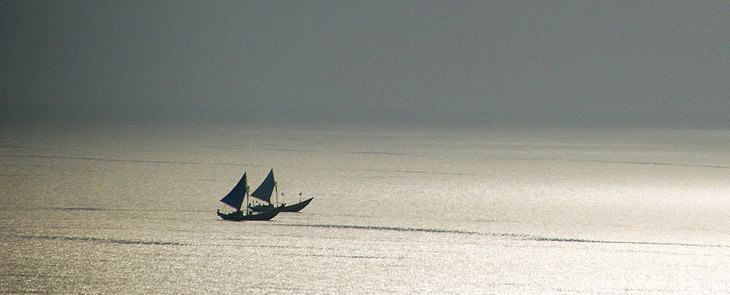
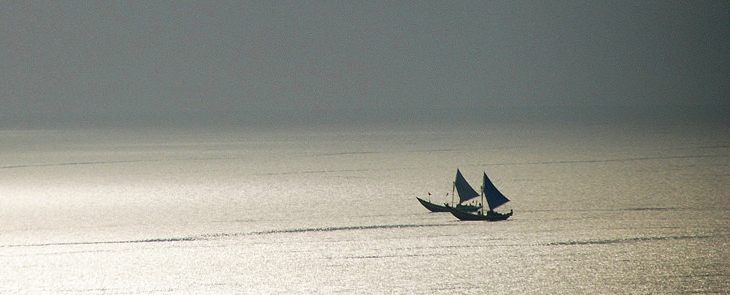
internal page template navigation

diff --git a/build/working-dai/job-opportunities/index.html b/build/working-dai/job-opportunities/index.html
@@ -204,10 +204,10 @@
     <svg class="logo" viewBox="0 0 982 245" preserveAspectRatio="xMinYMax meet"><use xlink:href="#logo"></use></svg>
     <ul class="header-nav--main">
         <li><a id="who-we-are-nav"href="/#who-we-are" class="">Who We Are</a></li>
-        <li><a id="our-work-nav" href="/#our-work">Our Work</a></li>
-        <li class="header-nav-li--tiered"><a id="stories-nav" href="/#stories">Stories</a></li>
-        <li><a id="news-nav" href="/#news">News</a></li>
-        <li><a id="working-with-dai-nav" href="/#working-with-dai">Working with DAI</a></li>
+        <li><a id="our-work-nav" href="/#our-work" class="">Our Work</a></li>
+        <li class="header-nav-li--tiered"><a id="stories-nav" href="/#stories" class="">Stories</a></li>
+        <li><a id="news-nav" href="/#news" class="">News</a></li>
+        <li><a id="working-with-dai-nav" href="/#working-with-dai" class="active">Working with DAI</a></li>
       </ul>
     </div>
   </div>
@@ -219,21 +219,42 @@
       <h4>Working with DAI</h4>
       <ul class="rail-nav-links">
         
-          <li class="rail-nav-link"><a href="/working-dai/contracting-vehicles">Contracting Vehicles</a></li>
+          <li class="rail-nav-link"><a href="/working-dai/contracting-vehicles" class="">Contracting Vehicles</a></li>
         
-          <li class="rail-nav-link"><a href="/working-dai/current-procurements">Currennt Procurements</a></li>
+          <li class="rail-nav-link"><a href="/working-dai/current-procurements" class="">Currennt Procurements</a></li>
         
-          <li class="rail-nav-link"><a href="/working-dai/job-opportunities/">Job Opportunities</a></li>
+          <li class="rail-nav-link"><a href="/working-dai/job-opportunities/" class="active">Job Opportunities</a></li>
         
-          <li class="rail-nav-link"><a href="/working-dai/partnering-dai">Partnering with DAI</a></li>
+          <li class="rail-nav-link"><a href="/working-dai/partnering-dai" class="">Partnering with DAI</a></li>
         
       </ul>
     </div>
-    <div class="node-nav-banner"></div>
   </div>
 
+<h1>Job Opportunities</h1>
+<p>DAI offers rewarding career opportunities for talented technical, managerial, and support professionals. By providing challenging assignments, a commitment to professional development, managerial systems based on teamwork, and an ownership stake in the company, we attract and retain high-caliber staff. Our workforce reflects a cultural diversity that gives us a broad spectrum of backgrounds and perspectives.</p>
 
-<p>then some page specific stuff here</p>
+<p><a href="" class="primary-block--button">Search Current Openings</a></p>
+<p>It is the policy of DAI to use the Internet and related electronic data technologies to fill all vacant home office (corporate) positions. Job seekers, both internal and external, including but not limited to individuals sourced by means of job fairs, networking events, and employee referrals, will be directed to apply at the DAI online career page. Job seekers are instructed to complete a profile and upload a copy of their current curriculum vitae for a particular job opening.</p>
+<p>Individuals must follow these instructions to be considered for employment. Race, ethnicity, and gender information will be solicited using a voluntary self-identification form at the time a job seeker completes a profile. Individual responses to this information will be tracked solely for purposes of compliance with affirmative action regulations under Executive Order 11246.</p>
+<p>DAI is an equal opportunity/affirmative action employer with a commitment to  diversity.  All individuals, regardless of personal characteristics, are encouraged to apply. (Compliant with the new VEVRAA and Section 503 rules).</p>
+<p><strong>Equal Employment Opportunity (EEO) Resources:</strong></p>
+<ul>
+  <li>
+    <a href="http://dai.com/sites/default/files/eeo-poster.pdf">Detailed explanation of the EEO is the Law poster (English)</a></li>
+  <li>
+    <a href="http://dai.com/sites/default/files/eeo-spanish.pdf">Detailed explanation of the EEO is the Law poster (Spanish)</a></li>
+  <li>
+    <a href="http://dai.com/sites/default/files/pdfs/eeo_policy.pdf">DAI EEO policy</a></li>
+</ul>
+<h3>Benefits</h3>
+<p>Joining DAI means that you now play a role in shaping a livable world. It also means that you have our global commitment to support you and your family by offering competitive and comprehensive compensation and benefits. As a DAI employee, whether you work in the U.S, the U.K., or a field location around the world, you and your dependents have access to generous health, welfare and pension plans, as well as market leading time off benefits and more.</p>
+
+<p>DAI strives to be an employer of choice and to achieve a healthy work-life balance for all employees.</p>
+<hr>
+<p class="disclaimer">DAI makes reasonable accommodation for individuals with disabilities who are otherwise qualified to perform a job, unless such accommodation would impose an undue hardship. Please let us know if you need an accommodation to participate in the application process: Call (301) 771-7587 or (301) 771-7768.</p>
+
+
       </div>
       <footer>
   <div class="footer-inner">

diff --git a/working-dai/job-opportunities.html b/working-dai/job-opportunities.html
@@ -3,4 +3,25 @@ layout: node
 title: Job Opportunities
 parent: working-dai
 ---
-<p>then some page specific stuff here</p>
+<p>DAI offers rewarding career opportunities for talented technical, managerial, and support professionals. By providing challenging assignments, a commitment to professional development, managerial systems based on teamwork, and an ownership stake in the company, we attract and retain high-caliber staff. Our workforce reflects a cultural diversity that gives us a broad spectrum of backgrounds and perspectives.</p>
+
+<p><a href="" class="primary-block--button">Search Current Openings</a></p>
+<p>It is the policy of DAI to use the Internet and related electronic data technologies to fill all vacant home office (corporate) positions. Job seekers, both internal and external, including but not limited to individuals sourced by means of job fairs, networking events, and employee referrals, will be directed to apply at the DAI online career page. Job seekers are instructed to complete a profile and upload a copy of their current curriculum vitae for a particular job opening.</p>
+<p>Individuals must follow these instructions to be considered for employment. Race, ethnicity, and gender information will be solicited using a voluntary self-identification form at the time a job seeker completes a profile. Individual responses to this information will be tracked solely for purposes of compliance with affirmative action regulations under Executive Order 11246.</p>
+<p>DAI is an equal opportunity/affirmative action employer with a commitment to  diversity.  All individuals, regardless of personal characteristics, are encouraged to apply. (Compliant with the new VEVRAA and Section 503 rules).</p>
+<p><strong>Equal Employment Opportunity (EEO) Resources:</strong></p>
+<ul>
+  <li>
+    <a href="http://dai.com/sites/default/files/eeo-poster.pdf">Detailed explanation of the EEO is the Law poster (English)</a></li>
+  <li>
+    <a href="http://dai.com/sites/default/files/eeo-spanish.pdf">Detailed explanation of the EEO is the Law poster (Spanish)</a></li>
+  <li>
+    <a href="http://dai.com/sites/default/files/pdfs/eeo_policy.pdf">DAI EEO policy</a></li>
+</ul>
+<h3>Benefits</h3>
+<p>Joining DAI means that you now play a role in shaping a livable world. It also means that you have our global commitment to support you and your family by offering competitive and comprehensive compensation and benefits. As a DAI employee, whether you work in the U.S, the U.K., or a field location around the world, you and your dependents have access to generous health, welfare and pension plans, as well as market leading time off benefits and more.</p>
+
+<p>DAI strives to be an employer of choice and to achieve a healthy work-life balance for all employees.</p>
+<hr>
+<p class="disclaimer">DAI makes reasonable accommodation for individuals with disabilities who are otherwise qualified to perform a job, unless such accommodation would impose an undue hardship. Please let us know if you need an accommodation to participate in the application process: Call (301) 771-7587 or (301) 771-7768.</p>
+

diff --git a/_includes/header.html b/_includes/header.html
@@ -13,11 +13,11 @@
     <div class="header-inner">
     <svg class="logo" viewBox="0 0 982 245" preserveAspectRatio="xMinYMax meet"><use xlink:href="#logo"></use></svg>
     <ul class="header-nav--main">
-        <li><a id="who-we-are-nav"href="/#who-we-are{% if page.title == "Home" %}{{"_hash"}}{% endif %}" class="">Who We Are</a></li>
-        <li><a id="our-work-nav" href="/#our-work{% if page.title == "Home" %}{{"_hash"}}{% endif %}">Our Work</a></li>
-        <li class="header-nav-li--tiered"><a id="stories-nav" href="/#stories{% if page.title == "Home" %}{{"_hash"}}{% endif %}">Stories</a></li>
-        <li><a id="news-nav" href="/#news{% if page.title == "Home" %}{{"_hash"}}{% endif %}">News</a></li>
-        <li><a id="working-with-dai-nav" href="/#working-with-dai{% if page.title == "Home" %}{{"_hash"}}{% endif %}">Working with DAI</a></li>
+        <li><a id="who-we-are-nav"href="/#who-we-are{% if page.title == "Home" %}{{"_hash"}}{% endif %}" class="{% if page.parent == "who-we-are" %}{{"active"}}{% endif %}">Who We Are</a></li>
+        <li><a id="our-work-nav" href="/#our-work{% if page.title == "Home" %}{{"_hash"}}{% endif %}" class="{% if page.parent == "our-work" %}{{"active"}}{% endif %}">Our Work</a></li>
+        <li class="header-nav-li--tiered"><a id="stories-nav" href="/#stories{% if page.title == "Home" %}{{"_hash"}}{% endif %}" class="{% if page.parent == "stories" %}{{"active"}}{% endif %}">Stories</a></li>
+        <li><a id="news-nav" href="/#news{% if page.title == "Home" %}{{"_hash"}}{% endif %}" class="{% if page.parent == "news" %}{{"active"}}{% endif %}">News</a></li>
+        <li><a id="working-with-dai-nav" href="/#working-with-dai{% if page.title == "Home" %}{{"_hash"}}{% endif %}" class="{% if page.parent == "working-dai" %}{{"active"}}{% endif %}">Working with DAI</a></li>
       </ul>
     </div>
   </div>

diff --git a/build/assets/css/site.css b/build/assets/css/site.css
@@ -137,6 +137,9 @@ strong {
   font-size: 1.3rem;
   font-weight: normal; }
 
+.disclaimer {
+  font-size: .8rem; }
+
 .footer-nav h4 {
   color: #8FC3EA;
   font-size: .6rem;
@@ -669,12 +672,12 @@ header {
       width: 624px; } }
 
 .primary-block {
-  margin-bottom: 1em; }
+  margin-bottom: 4em; }
   .primary-block img {
     width: 100%; }
 
 .primary-block.split {
-  margin-bottom: 3em; }
+  margin-bottom: 4em; }
   @media screen and (min-width: 50em) {
     .primary-block.split {
       width: 228px;
@@ -843,7 +846,8 @@ tbody tr:nth-child(odd) th {
   margin-bottom: 1rem;
   background-image: url(/assets/images/working/boats.jpg);
   background-repeat: no-repeat;
-  background-size: cover; }
+  background-size: cover;
+  background-position: center; }
   .node-nav:before, .node-nav:after {
     content: " ";
     display: table; }
@@ -857,10 +861,15 @@ tbody tr:nth-child(odd) th {
     color: white; }
   .node-nav--links li a {
     color: #c8c6c2; }
+  .node-nav--links li a.active {
+    color: white; }
   @media screen and (min-width: 30em) {
     .node-nav--links {
       width: 192px;
       float: left; } }
+  @media screen and (min-width: 37.5em) {
+    .node-nav--links {
+      width: 264px; } }
 
 @media screen and (min-width: 30em) {
   .node-nav-banner {

diff --git a/build/index.html b/build/index.html
@@ -204,10 +204,10 @@
     <svg class="logo" viewBox="0 0 982 245" preserveAspectRatio="xMinYMax meet"><use xlink:href="#logo"></use></svg>
     <ul class="header-nav--main">
         <li><a id="who-we-are-nav"href="/#who-we-are_hash" class="">Who We Are</a></li>
-        <li><a id="our-work-nav" href="/#our-work_hash">Our Work</a></li>
-        <li class="header-nav-li--tiered"><a id="stories-nav" href="/#stories_hash">Stories</a></li>
-        <li><a id="news-nav" href="/#news_hash">News</a></li>
-        <li><a id="working-with-dai-nav" href="/#working-with-dai_hash">Working with DAI</a></li>
+        <li><a id="our-work-nav" href="/#our-work_hash" class="">Our Work</a></li>
+        <li class="header-nav-li--tiered"><a id="stories-nav" href="/#stories_hash" class="">Stories</a></li>
+        <li><a id="news-nav" href="/#news_hash" class="">News</a></li>
+        <li><a id="working-with-dai-nav" href="/#working-with-dai_hash" class="">Working with DAI</a></li>
       </ul>
     </div>
   </div>

diff --git a/build/page2/index.html b/build/page2/index.html
@@ -204,10 +204,10 @@
     <svg class="logo" viewBox="0 0 982 245" preserveAspectRatio="xMinYMax meet"><use xlink:href="#logo"></use></svg>
     <ul class="header-nav--main">
         <li><a id="who-we-are-nav"href="/#who-we-are_hash" class="">Who We Are</a></li>
-        <li><a id="our-work-nav" href="/#our-work_hash">Our Work</a></li>
-        <li class="header-nav-li--tiered"><a id="stories-nav" href="/#stories_hash">Stories</a></li>
-        <li><a id="news-nav" href="/#news_hash">News</a></li>
-        <li><a id="working-with-dai-nav" href="/#working-with-dai_hash">Working with DAI</a></li>
+        <li><a id="our-work-nav" href="/#our-work_hash" class="">Our Work</a></li>
+        <li class="header-nav-li--tiered"><a id="stories-nav" href="/#stories_hash" class="">Stories</a></li>
+        <li><a id="news-nav" href="/#news_hash" class="">News</a></li>
+        <li><a id="working-with-dai-nav" href="/#working-with-dai_hash" class="">Working with DAI</a></li>
       </ul>
     </div>
   </div>

diff --git a/build/404/index.html b/build/404/index.html
@@ -204,10 +204,10 @@
     <svg class="logo" viewBox="0 0 982 245" preserveAspectRatio="xMinYMax meet"><use xlink:href="#logo"></use></svg>
     <ul class="header-nav--main">
         <li><a id="who-we-are-nav"href="/#who-we-are" class="">Who We Are</a></li>
-        <li><a id="our-work-nav" href="/#our-work">Our Work</a></li>
-        <li class="header-nav-li--tiered"><a id="stories-nav" href="/#stories">Stories</a></li>
-        <li><a id="news-nav" href="/#news">News</a></li>
-        <li><a id="working-with-dai-nav" href="/#working-with-dai">Working with DAI</a></li>
+        <li><a id="our-work-nav" href="/#our-work" class="">Our Work</a></li>
+        <li class="header-nav-li--tiered"><a id="stories-nav" href="/#stories" class="">Stories</a></li>
+        <li><a id="news-nav" href="/#news" class="">News</a></li>
+        <li><a id="working-with-dai-nav" href="/#working-with-dai" class="">Working with DAI</a></li>
       </ul>
     </div>
   </div>

diff --git a/build/about/index.html b/build/about/index.html
@@ -204,10 +204,10 @@
     <svg class="logo" viewBox="0 0 982 245" preserveAspectRatio="xMinYMax meet"><use xlink:href="#logo"></use></svg>
     <ul class="header-nav--main">
         <li><a id="who-we-are-nav"href="/#who-we-are" class="">Who We Are</a></li>
-        <li><a id="our-work-nav" href="/#our-work">Our Work</a></li>
-        <li class="header-nav-li--tiered"><a id="stories-nav" href="/#stories">Stories</a></li>
-        <li><a id="news-nav" href="/#news">News</a></li>
-        <li><a id="working-with-dai-nav" href="/#working-with-dai">Working with DAI</a></li>
+        <li><a id="our-work-nav" href="/#our-work" class="">Our Work</a></li>
+        <li class="header-nav-li--tiered"><a id="stories-nav" href="/#stories" class="">Stories</a></li>
+        <li><a id="news-nav" href="/#news" class="">News</a></li>
+        <li><a id="working-with-dai-nav" href="/#working-with-dai" class="">Working with DAI</a></li>
       </ul>
     </div>
   </div>

diff --git a/build/news/2013/12/31/whats-jekyll/index.html b/build/news/2013/12/31/whats-jekyll/index.html
@@ -204,10 +204,10 @@
     <svg class="logo" viewBox="0 0 982 245" preserveAspectRatio="xMinYMax meet"><use xlink:href="#logo"></use></svg>
     <ul class="header-nav--main">
         <li><a id="who-we-are-nav"href="/#who-we-are" class="">Who We Are</a></li>
-        <li><a id="our-work-nav" href="/#our-work">Our Work</a></li>
-        <li class="header-nav-li--tiered"><a id="stories-nav" href="/#stories">Stories</a></li>
-        <li><a id="news-nav" href="/#news">News</a></li>
-        <li><a id="working-with-dai-nav" href="/#working-with-dai">Working with DAI</a></li>
+        <li><a id="our-work-nav" href="/#our-work" class="">Our Work</a></li>
+        <li class="header-nav-li--tiered"><a id="stories-nav" href="/#stories" class="">Stories</a></li>
+        <li><a id="news-nav" href="/#news" class="">News</a></li>
+        <li><a id="working-with-dai-nav" href="/#working-with-dai" class="">Working with DAI</a></li>
       </ul>
     </div>
   </div>

diff --git a/build/news/2014/01/01/example-content/index.html b/build/news/2014/01/01/example-content/index.html
@@ -204,10 +204,10 @@
     <svg class="logo" viewBox="0 0 982 245" preserveAspectRatio="xMinYMax meet"><use xlink:href="#logo"></use></svg>
     <ul class="header-nav--main">
         <li><a id="who-we-are-nav"href="/#who-we-are" class="">Who We Are</a></li>
-        <li><a id="our-work-nav" href="/#our-work">Our Work</a></li>
-        <li class="header-nav-li--tiered"><a id="stories-nav" href="/#stories">Stories</a></li>
-        <li><a id="news-nav" href="/#news">News</a></li>
-        <li><a id="working-with-dai-nav" href="/#working-with-dai">Working with DAI</a></li>
+        <li><a id="our-work-nav" href="/#our-work" class="">Our Work</a></li>
+        <li class="header-nav-li--tiered"><a id="stories-nav" href="/#stories" class="">Stories</a></li>
+        <li><a id="news-nav" href="/#news" class="">News</a></li>
+        <li><a id="working-with-dai-nav" href="/#working-with-dai" class="">Working with DAI</a></li>
       </ul>
     </div>
   </div>

diff --git a/assets/_sass/_layout.scss b/assets/_sass/_layout.scss
@@ -200,13 +200,13 @@ header{
   }
 }
 .primary-block{
-  margin-bottom: 1em;
+  margin-bottom: 4em;
   img{
     width: 100%;
   }
 }
 .primary-block.split{
-  margin-bottom: 3em;
+  margin-bottom: 4em;
   @include responsive(wide-screens){
     @include width(3.5);
     margin-bottom: 1em;
@@ -398,6 +398,7 @@ tbody tr:nth-child(odd) th {
   background-image: url(/assets/images/working/boats.jpg);
   background-repeat: no-repeat;
   background-size: cover;
+  background-position: center;
 }
 .node-nav--links{
   background-color: $nav-black;
@@ -408,9 +409,15 @@ tbody tr:nth-child(odd) th {
   li a{
     color: $node-nav--inactive;
   }
+  li a.active{
+    color: $text-white;
+  }
   @include responsive(small-screens){
     @include width(3);
     float: left;
+  }
+  @include responsive(medium-screens){
+    @include width(4);
   }
 }
 .node-nav-banner{

diff --git a/_layouts/node.html b/_layouts/node.html
@@ -7,12 +7,11 @@ layout: default
       <h4>Working with DAI</h4>
       <ul class="rail-nav-links">
         {% for nav in site.data.nav-main-working %}
-          <li class="rail-nav-link"><a href="{{ nav.link }}">{{ nav.text }}</a></li>
+          <li class="rail-nav-link"><a href="{{ nav.link }}" class="{% if page.title == nav.text %}{{ "active" }}{% endif %}">{{ nav.text }}</a></li>
         {% endfor %}
       </ul>
     </div>
-    <div class="node-nav-banner"></div>
   </div>
 {% endif %}
-
+<h1>{{ page.title }}</h1>
 {{ content }}
